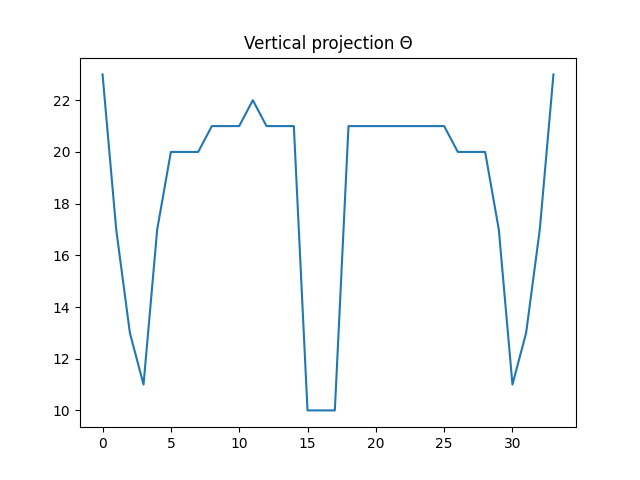
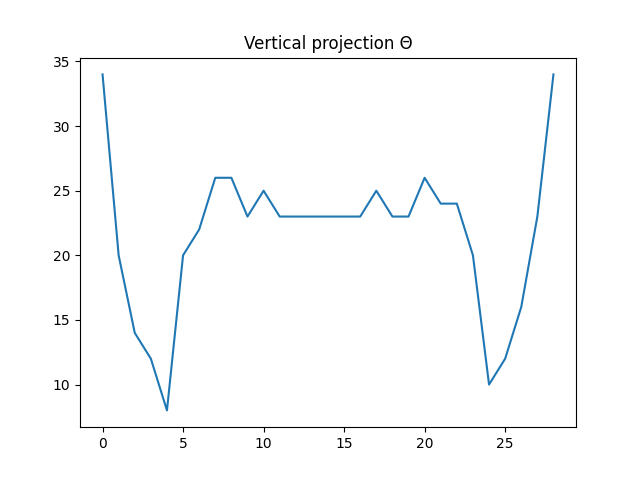
add: forth lab report

diff --git a/forth_lab/task.py b/forth_lab/task.py
@@ -26,6 +26,8 @@ PROJECTIONS_FOLDER_NAME = 'projections'
 def generate_report(alphabet_folder_name):
     report = MdUtils(file_name=f'../{REPORTS_FOLDER_NAME}/{REPORT_FILE_NAME}')
     report.new_header(level=1, title=REPORT_FILE_TITLE)
+    report.new_line(text='Выполнил Ахманов Алексей Б18-514')
+    report.new_line(text='Алфавит - греческие заглавные')
 
     for letter in ALPHABET:
         letter_image_path = f'../{IMAGES_FOLDER_NAME}/{alphabet_folder_name}/{letter}.png'
@@ -48,14 +50,20 @@ def generate_report(alphabet_folder_name):
         h_levels, h_projections = horizontal_projection(thresholded)
         pyplot.plot(h_levels, h_projections)
         pyplot.title(f'Horizontal projection {letter}')
-        pyplot.savefig(f'../{PROJECTIONS_FOLDER_NAME}/horizontal_projection_{letter}.png')
+        path = f'../{PROJECTIONS_FOLDER_NAME}/horizontal_projection_{letter}.png'
+        pyplot.savefig(path)
         pyplot.close()
 
-        v_levels, v_projections = horizontal_projection(thresholded)
+        report.new_line(report.new_inline_image(text=letter, path=path))
+
+        v_levels, v_projections = vertical_projection(thresholded)
         pyplot.plot(v_levels, v_projections)
         pyplot.title(f'Vertical projection {letter}')
-        pyplot.savefig(f'../{PROJECTIONS_FOLDER_NAME}/vertical_projection_{letter}.png')
+        path = f'../{PROJECTIONS_FOLDER_NAME}/vertical_projection_{letter}.png'
+        pyplot.savefig(path)
         pyplot.close()
+
+        report.new_line(report.new_inline_image(text=letter, path=path))
 
         report.new_line()
 

diff --git a/reports/forth_lab_report.md b/reports/forth_lab_report.md
@@ -3,7 +3,9 @@
 
 
 # Лабораторная работа 4. Выделение признаков символов
-
+  
+Выполнил Ахманов Алексей Б18-514  
+Алфавит - греческие заглавные
 ## Буква A
   
 ![A](../images/greek_alphabet_uppercase/A.png)  
@@ -15,6 +17,8 @@
 Центральный вертикальный осевой момент - 69152  
 Нормированный центральный горизонтальный осевой момент - 36.281058101086444  
 Нормированный центральный вертикальный осевой момент - 32.66509211147851  
+![A](../projections/horizontal_projection_A.png)  
+![A](../projections/vertical_projection_A.png)  
 
 ## Буква Β
   
@@ -27,6 +31,8 @@
 Центральный вертикальный осевой момент - 30269  
 Нормированный центральный горизонтальный осевой момент - 24.829694323144103  
 Нормированный центральный вертикальный осевой момент - 16.522379912663755  
+![Β](../projections/horizontal_projection_Β.png)  
+![Β](../projections/vertical_projection_Β.png)  
 
 ## Буква Γ
   
@@ -39,6 +45,8 @@
 Центральный вертикальный осевой момент - 25536  
 Нормированный центральный горизонтальный осевой момент - 30.84985163204748  
 Нормированный центральный вертикальный осевой момент - 15.154896142433234  
+![Γ](../projections/horizontal_projection_Γ.png)  
+![Γ](../projections/vertical_projection_Γ.png)  
 
 ## Буква Δ
   
@@ -51,6 +59,8 @@
 Центральный вертикальный осевой момент - 82187  
 Нормированный центральный горизонтальный осевой момент - 29.84988864142539  
 Нормированный центральный вертикальный осевой момент - 36.60890868596882  
+![Δ](../projections/horizontal_projection_Δ.png)  
+![Δ](../projections/vertical_projection_Δ.png)  
 
 ## Буква Ε
   
@@ -63,6 +73,8 @@
 Центральный вертикальный осевой момент - 30624  
 Нормированный центральный горизонтальный осевой момент - 25.654126895002808  
 Нормированный центральный вертикальный осевой момент - 17.194834362717575  
+![Ε](../projections/horizontal_projection_Ε.png)  
+![Ε](../projections/vertical_projection_Ε.png)  
 
 ## Буква Ζ
   
@@ -75,6 +87,8 @@
 Центральный вертикальный осевой момент - 34506  
 Нормированный центральный горизонтальный осевой момент - 23.08590679393599  
 Нормированный центральный вертикальный осевой момент - 19.374508702975856  
+![Ζ](../projections/horizontal_projection_Ζ.png)  
+![Ζ](../projections/vertical_projection_Ζ.png)  
 
 ## Буква Η
   
@@ -87,6 +101,8 @@
 Центральный вертикальный осевой момент - 32320  
 Нормированный центральный горизонтальный осевой момент - 35.46855670103093  
 Нормированный центральный вертикальный осевой момент - 16.65979381443299  
+![Η](../projections/horizontal_projection_Η.png)  
+![Η](../projections/vertical_projection_Η.png)  
 
 ## Буква Θ
   
@@ -99,6 +115,8 @@
 Центральный вертикальный осевой момент - 42705  
 Нормированный центральный горизонтальный осевой момент - 29.599899849774662  
 Нормированный центральный вертикальный осевой момент - 21.384576865297948  
+![Θ](../projections/horizontal_projection_Θ.png)  
+![Θ](../projections/vertical_projection_Θ.png)  
 
 ## Буква Ι
   
@@ -111,6 +129,8 @@
 Центральный вертикальный осевой момент - 442  
 Нормированный центральный горизонтальный осевой момент - 5.50503355704698  
 Нормированный центральный вертикальный осевой момент - 0.37080536912751677  
+![Ι](../projections/horizontal_projection_Ι.png)  
+![Ι](../projections/vertical_projection_Ι.png)  
 
 ## Буква Κ
   
@@ -123,6 +143,8 @@
 Центральный вертикальный осевой момент - 39046  
 Нормированный центральный горизонтальный осевой момент - 33.80477453580902  
 Нормированный центральный вертикальный осевой момент - 20.714058355437665  
+![Κ](../projections/horizontal_projection_Κ.png)  
+![Κ](../projections/vertical_projection_Κ.png)  
 
 ## Буква Λ
   
@@ -135,6 +157,8 @@
 Центральный вертикальный осевой момент - 71084  
 Нормированный центральный горизонтальный осевой момент - 37.26452527161077  
 Нормированный центральный вертикальный осевой момент - 33.577704298535664  
+![Λ](../projections/horizontal_projection_Λ.png)  
+![Λ](../projections/vertical_projection_Λ.png)  
 
 ## Буква Μ
   
@@ -147,6 +171,8 @@
 Центральный вертикальный осевой момент - 67050  
 Нормированный центральный горизонтальный осевой момент - 31.30546492659054  
 Нормированный центральный вертикальный осевой момент - 27.345024469820554  
+![Μ](../projections/horizontal_projection_Μ.png)  
+![Μ](../projections/vertical_projection_Μ.png)  
 
 ## Буква Ν
   
@@ -159,6 +185,8 @@
 Центральный вертикальный осевой момент - 30602  
 Нормированный центральный горизонтальный осевой момент - 31.05257731958763  
 Нормированный центральный вертикальный осевой момент - 15.774226804123712  
+![Ν](../projections/horizontal_projection_Ν.png)  
+![Ν](../projections/vertical_projection_Ν.png)  
 
 ## Буква Ξ
   
@@ -171,6 +199,8 @@
 Центральный вертикальный осевой момент - 7851  
 Нормированный центральный горизонтальный осевой момент - 1.0444444444444445  
 Нормированный центральный вертикальный осевой момент - 10.904166666666667  
+![Ξ](../projections/horizontal_projection_Ξ.png)  
+![Ξ](../projections/vertical_projection_Ξ.png)  
 
 ## Буква Ο
   
@@ -183,6 +213,8 @@
 Центральный вертикальный осевой момент - 43035  
 Нормированный центральный горизонтальный осевой момент - 29.621932899349023  
 Нормированный центральный вертикальный осевой момент - 21.54982473710566  
+![Ο](../projections/horizontal_projection_Ο.png)  
+![Ο](../projections/vertical_projection_Ο.png)  
 
 ## Буква Π
   
@@ -195,6 +227,8 @@
 Центральный вертикальный осевой момент - 32320  
 Нормированный центральный горизонтальный осевой момент - 27.957216494845362  
 Нормированный центральный вертикальный осевой момент - 16.65979381443299  
+![Π](../projections/horizontal_projection_Π.png)  
+![Π](../projections/vertical_projection_Π.png)  
 
 ## Буква Ρ
   
@@ -207,6 +241,8 @@
 Центральный вертикальный осевой момент - 38108  
 Нормированный центральный горизонтальный осевой момент - 32.47214854111406  
 Нормированный центральный вертикальный осевой момент - 20.216445623342175  
+![Ρ](../projections/horizontal_projection_Ρ.png)  
+![Ρ](../projections/vertical_projection_Ρ.png)  
 
 ## Буква Σ
   
@@ -219,6 +255,8 @@
 Центральный вертикальный осевой момент - 34628  
 Нормированный центральный горизонтальный осевой момент - 22.981471083660864  
 Нормированный центральный вертикальный осевой момент - 19.443009545199327  
+![Σ](../projections/horizontal_projection_Σ.png)  
+![Σ](../projections/vertical_projection_Σ.png)  
 
 ## Буква Τ
   
@@ -231,6 +269,8 @@
 Центральный вертикальный осевой момент - 57763  
 Нормированный центральный горизонтальный осевой момент - 31.576288659793814  
 Нормированный центральный вертикальный осевой момент - 29.774742268041237  
+![Τ](../projections/horizontal_projection_Τ.png)  
+![Τ](../projections/vertical_projection_Τ.png)  
 
 ## Буква Υ
   
@@ -243,6 +283,8 @@
 Центральный вертикальный осевой момент - 60250  
 Нормированный центральный горизонтальный осевой момент - 37.51026539809715  
 Нормированный центральный вертикальный осевой момент - 30.17025538307461  
+![Υ](../projections/horizontal_projection_Υ.png)  
+![Υ](../projections/vertical_projection_Υ.png)  
 
 ## Буква Φ
   
@@ -255,6 +297,8 @@
 Центральный вертикальный осевой момент - 71214  
 Нормированный центральный горизонтальный осевой момент - 36.23211009174312  
 Нормированный центральный вертикальный осевой момент - 32.66697247706422  
+![Φ](../projections/horizontal_projection_Φ.png)  
+![Φ](../projections/vertical_projection_Φ.png)  
 
 ## Буква Χ
   
@@ -267,6 +311,8 @@
 Центральный вертикальный осевой момент - 55871  
 Нормированный центральный горизонтальный осевой момент - 32.45868803204807  
 Нормированный центральный вертикальный осевой момент - 27.97746619929895  
+![Χ](../projections/horizontal_projection_Χ.png)  
+![Χ](../projections/vertical_projection_Χ.png)  
 
 ## Буква Ψ
   
@@ -279,6 +325,8 @@
 Центральный вертикальный осевой момент - 50548  
 Нормированный центральный горизонтальный осевой момент - 33.50729571984436  
 Нормированный центральный вертикальный осевой момент - 24.585603112840467  
+![Ψ](../projections/horizontal_projection_Ψ.png)  
+![Ψ](../projections/vertical_projection_Ψ.png)  
 
 ## Буква Ω
   
@@ -291,3 +339,5 @@
 Центральный вертикальный осевой момент - 38490  
 Нормированный центральный горизонтальный осевой момент - 27.053092783505154  
 Нормированный центральный вертикальный осевой момент - 19.84020618556701  
+![Ω](../projections/horizontal_projection_Ω.png)  
+![Ω](../projections/vertical_projection_Ω.png)  
